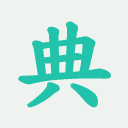
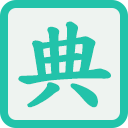
position changes relatively when scroll

Changed region(s): [[0.0, 0.0, 1.0, 1.0]]

diff --git a/src/show.js b/src/show.js
@@ -82,7 +82,7 @@ document.addEventListener('mouseup', function(event) {
             if (!button) {
                 button = document.createElement('img');
                 button.id = 'handian-btn';
-                button.src = 'https://raw.githubusercontent.com/Ovilia/handian-chrome-extension/master/src/handian48.png';
+                button.src = 'https://raw.githubusercontent.com/Ovilia/handian-chrome-extension/master/res/handian32.png';
                 button.style['position'] = 'fixed';
                 button.style['cursor'] = 'pointer';
                 
@@ -106,6 +106,14 @@ document.addEventListener('mouseup', function(event) {
         }
     });
 });
+
+document.onscroll = function(event) {
+    var sel = window.getSelection();
+    var pos = sel.getRangeAt(0).getBoundingClientRect();
+    var button = document.getElementById('handian-btn');
+    button.style['left'] = pos.left + 'px';
+    button.style['top'] = pos.bottom + 10 + 'px';
+}
 
 /* Convert Gb2312 To Utf8
 /* code from http://blog.sina.com.cn/s/blog_8ba818a50100wabh.html */
